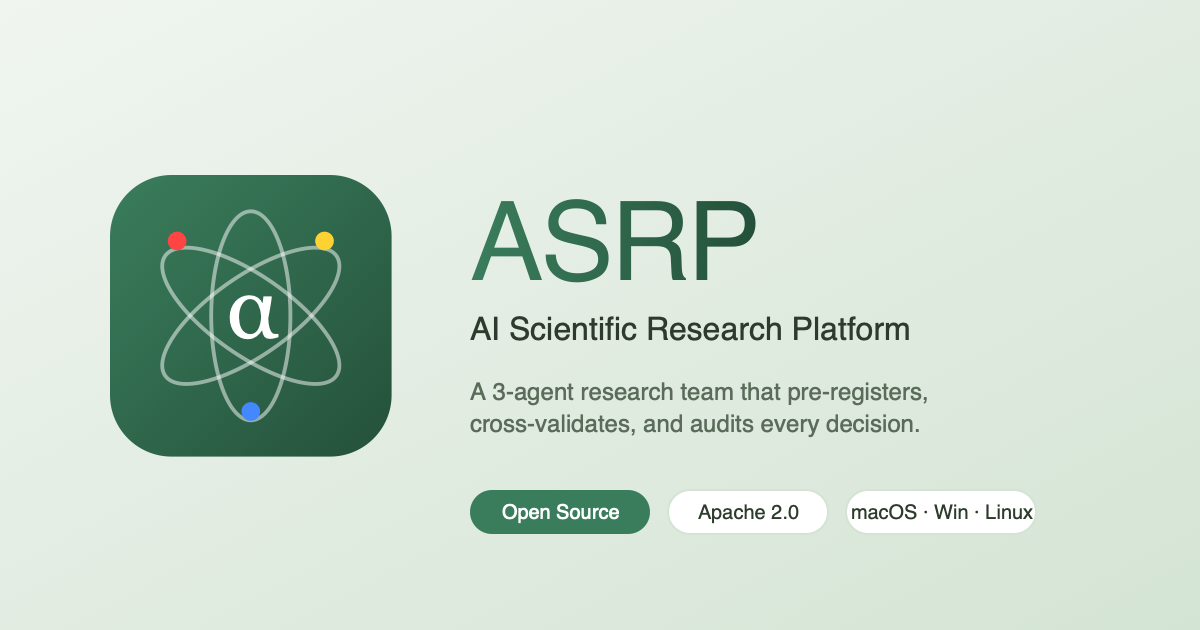
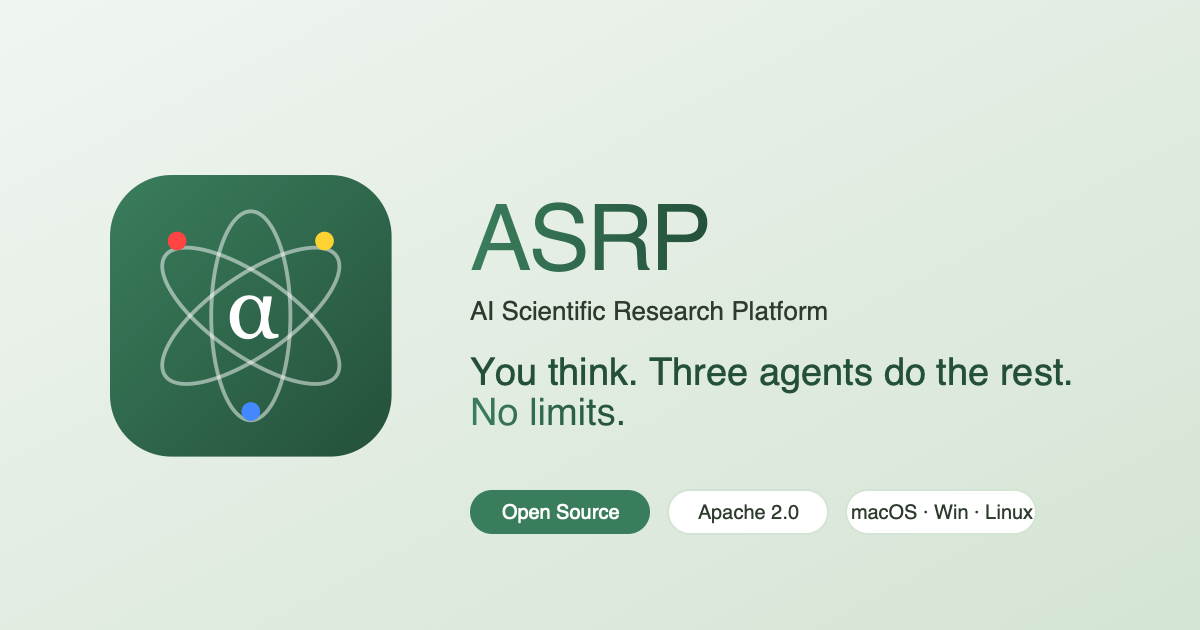
feat(hero): new slogan + dynamic version badge
- New main slogan: "You think. Three agents do the rest. No limits."
- New sub-tagline frames the human/agent division of labor: humans
  own hypotheses, judgments, decisions; agents handle literature recon,
  simulations, code, documentation, figures
- Translated across all 4 locales (en/zh/zht/de)
- Updated meta description, og:description, twitter:description, and
  JSON-LD description to match
- Refreshed og-image.svg/png with the new tagline
- Hero version badge now reads from [data-asrp-version] populated by
  download.js (single source of truth = GitHub Releases API), so the
  badge can never drift from the real latest release again

Changed region(s): [[0.37, 0.573, 0.8942, 0.6937], [0.37, 0.3016, 0.6475, 0.4524], [0.37, 0.4825, 0.7708, 0.5429]]

diff --git a/index.html b/index.html
@@ -4,7 +4,7 @@
 <meta charset="UTF-8">
 <meta name="viewport" content="width=device-width, initial-scale=1.0">
 <title>ASRP — AI Scientific Research Platform</title>
-<meta name="description" content="ASRP is an open-source AI Scientific Research Platform. A 3-agent research team that pre-registers experiments, cross-validates results, and audits every decision. Discord-native, runs locally, Apache 2.0.">
+<meta name="description" content="ASRP — You think. Three agents do the rest. No limits. An open-source AI Scientific Research Platform: you handle hypotheses, judgments, and decisions; your agents handle literature recon, simulations, code, documentation, and figures. Discord-native, runs locally, Apache 2.0.">
 <meta name="keywords" content="AI research, scientific research platform, AI agents, multi-agent, pre-registration, cross-validation, reproducibility, open science, Discord, Ollama, Claude, ASRP">
 
 <!-- Favicons -->
@@ -18,13 +18,13 @@
 <meta property="og:type" content="website">
 <meta property="og:url" content="https://asrp.jzis.org/">
 <meta property="og:title" content="ASRP — AI Scientific Research Platform">
-<meta property="og:description" content="A 3-agent research team that pre-registers, cross-validates, and audits every decision. Open source, Discord-native, runs locally.">
+<meta property="og:description" content="You think. Three agents do the rest. No limits. — Open-source AI Scientific Research Platform. Discord-native, runs locally.">
 <meta property="og:image" content="https://asrp.jzis.org/og-image.png">
 <meta property="og:image:width" content="1200">
 <meta property="og:image:height" content="630">
 <meta name="twitter:card" content="summary_large_image">
 <meta name="twitter:title" content="ASRP — AI Scientific Research Platform">
-<meta name="twitter:description" content="A 3-agent research team that pre-registers, cross-validates, and audits every decision.">
+<meta name="twitter:description" content="You think. Three agents do the rest. No limits. — Open-source AI Scientific Research Platform.">
 <meta name="twitter:image" content="https://asrp.jzis.org/og-image.png">
 
 <!-- JSON-LD: SoftwareApplication -->
@@ -42,7 +42,7 @@
   "downloadUrl": "https://github.com/JackZH26/ASRP-JZIS/releases/latest",
   "softwareVersion": "0.3.13",
   "publisher": { "@type": "Organization", "name": "JZ Institute of Science", "url": "https://www.jzis.org" },
-  "description": "Open-source AI Scientific Research Platform — a 3-agent research team (Theorist, Engineer, Reviewer) that pre-registers experiments, cross-validates results, and audits every decision. Discord-native, runs locally."
+  "description": "You think. Three agents do the rest. No limits. — Open-source AI Scientific Research Platform. You handle hypotheses, judgments, and decisions; your three agents (Theorist, Engineer, Reviewer) handle literature recon, simulations, code, documentation, and figures. Discord-native, runs locally."
 }
 </script>
 
@@ -333,13 +333,13 @@ footer .copyright { font-size: 0.875rem; color: var(--text-tertiary); }
   <div class="container">
     <div class="badge">
       <svg width="12" height="12" viewBox="0 0 24 24" fill="currentColor"><circle cx="12" cy="12" r="10"/></svg>
-      <span data-i18n="hero.badge">Open Source · Apache 2.0 · v0.3.13</span>
+      <span data-i18n="hero.badge">Open Source · Apache 2.0</span> · <span data-asrp-version>v0.3.15</span>
     </div>
     <h1>
-      <span data-i18n="hero.title1">A 3-agent research team</span><br>
-      <span data-i18n="hero.title2">that catches errors </span><span class="gradient-text" data-i18n="hero.title3">before they ship</span>.
+      <span data-i18n="hero.title1">You think.</span><br>
+      <span data-i18n="hero.title2">Three agents do the rest. </span><span class="gradient-text" data-i18n="hero.title3">No limits</span>.
     </h1>
-    <p class="subtitle" data-i18n="hero.subtitle">ASRP is an open-source AI Scientific Research Platform. Theorist, Engineer, and Reviewer collaborate in your Discord, pre-register hypotheses, cross-validate results, and audit every decision — all from a desktop app you run on your own machine.</p>
+    <p class="subtitle" data-i18n="hero.subtitle">You handle hypotheses, judgments, and decisions. Your agents handle literature recon, simulations, code, documentation, and figures.</p>
     <div class="actions">
       <a href="https://github.com/JackZH26/ASRP-JZIS/releases/latest" class="btn btn-primary dl-btn" data-asrp-download>
         <span class="dl-row1">
@@ -750,11 +750,11 @@ document.addEventListener('click', function(e) {
 const translations = {
   en: {
     "nav.workflow":"Workflow","nav.agents":"Agents","nav.features":"Features","nav.challenge":"Challenge","nav.download":"Download",
-    "hero.badge":"Open Source · Apache 2.0 · v0.3.13",
-    "hero.title1":"A 3-agent research team",
-    "hero.title2":"that catches errors ",
-    "hero.title3":"before they ship",
-    "hero.subtitle":"ASRP is an open-source AI Scientific Research Platform. Theorist, Engineer, and Reviewer collaborate in your Discord, pre-register hypotheses, cross-validate results, and audit every decision — all from a desktop app you run on your own machine.",
+    "hero.badge":"Open Source · Apache 2.0",
+    "hero.title1":"You think.",
+    "hero.title2":"Three agents do the rest. ",
+    "hero.title3":"No limits",
+    "hero.subtitle":"You handle hypotheses, judgments, and decisions. Your agents handle literature recon, simulations, code, documentation, and figures.",
     "hero.download":"Download for your platform","hero.dlSub":"","hero.viewGithub":"View on GitHub",
     "hero.stats.agents":"Agent Roles","hero.stats.phases":"Workflow Phases","hero.stats.challenges":"Challenge Problems","hero.stats.languages":"Languages",
     "problem.eyebrow":"The reproducibility crisis","problem.title":"Speed without rigor is noise.","problem.subtitle":"AI agents can produce a paper a day. Most of those papers won't reproduce. ASRP encodes the scientific method into the workflow itself.",
@@ -821,11 +821,11 @@ const translations = {
   },
   zh: {
     "nav.workflow":"工作流","nav.agents":"智能体","nav.features":"功能","nav.challenge":"挑战题库","nav.download":"下载",
-    "hero.badge":"开源 · Apache 2.0 · v0.3.13",
-    "hero.title1":"3 智能体科研团队",
-    "hero.title2":"在错误流入论文前 ",
-    "hero.title3":"主动拦截",
-    "hero.subtitle":"ASRP 是一个开源的 AI 科学研究平台。Theorist、Engineer、Reviewer 三个智能体在你的 Discord 中协作，预注册假设、交叉验证结果、审计每一个决策——全部在你本机运行的桌面应用里完成。",
+    "hero.badge":"开源 · Apache 2.0",
+    "hero.title1":"你负责思考。",
+    "hero.title2":"三个智能体做剩下的一切。 ",
+    "hero.title3":"没有上限",
+    "hero.subtitle":"你只管假设、判断和决策。文献检索、数值计算、代码、文档、制图——交给你的智能体。",
     "hero.download":"下载适合你平台的版本","hero.dlSub":"","hero.viewGithub":"在 GitHub 上查看",
     "hero.stats.agents":"智能体角色","hero.stats.phases":"工作流阶段","hero.stats.challenges":"挑战题","hero.stats.languages":"语言",
     "problem.eyebrow":"可重复性危机","problem.title":"没有严谨的速度只是噪音。","problem.subtitle":"AI 智能体一天能产出一篇论文。但其中大多数无法复现。ASRP 把科学方法直接编码到工作流里。",
@@ -892,11 +892,11 @@ const translations = {
   },
   zht: {
     "nav.workflow":"工作流","nav.agents":"智能體","nav.features":"功能","nav.challenge":"挑戰題庫","nav.download":"下載",
-    "hero.badge":"開源 · Apache 2.0 · v0.3.13",
-    "hero.title1":"3 智能體科研團隊",
-    "hero.title2":"在錯誤流入論文前 ",
-    "hero.title3":"主動攔截",
-    "hero.subtitle":"ASRP 是一個開源的 AI 科學研究平台。Theorist、Engineer、Reviewer 三個智能體在你的 Discord 中協作，預註冊假設、交叉驗證結果、稽核每一個決策——全部在你本機運行的桌面應用裡完成。",
+    "hero.badge":"開源 · Apache 2.0",
+    "hero.title1":"你負責思考。",
+    "hero.title2":"三個智能體做剩下的一切。 ",
+    "hero.title3":"沒有上限",
+    "hero.subtitle":"你只管假設、判斷和決策。文獻檢索、數值計算、程式碼、文件、製圖——交給你的智能體。",
     "hero.download":"下載適合你平台的版本","hero.dlSub":"","hero.viewGithub":"在 GitHub 上查看",
     "hero.stats.agents":"智能體角色","hero.stats.phases":"工作流階段","hero.stats.challenges":"挑戰題","hero.stats.languages":"語言",
     "problem.eyebrow":"可重現性危機","problem.title":"沒有嚴謹的速度只是噪音。","problem.subtitle":"AI 智能體一天能產出一篇論文。但其中大多數無法重現。ASRP 把科學方法直接編碼到工作流裡。",
@@ -963,11 +963,11 @@ const translations = {
   },
   de: {
     "nav.workflow":"Workflow","nav.agents":"Agenten","nav.features":"Funktionen","nav.challenge":"Challenge","nav.download":"Download",
-    "hero.badge":"Open Source · Apache 2.0 · v0.3.13",
-    "hero.title1":"Ein 3-Agenten-Forschungsteam,",
-    "hero.title2":"das Fehler abfängt, ",
-    "hero.title3":"bevor sie veröffentlicht werden",
-    "hero.subtitle":"ASRP ist eine Open-Source-Plattform für KI-gestützte wissenschaftliche Forschung. Theorist, Engineer und Reviewer arbeiten in deinem Discord zusammen, registrieren Hypothesen vor, kreuzvalidieren Ergebnisse und prüfen jede Entscheidung — alles in einer Desktop-App, die du auf deinem eigenen Rechner betreibst.",
+    "hero.badge":"Open Source · Apache 2.0",
+    "hero.title1":"Du denkst.",
+    "hero.title2":"Drei Agenten erledigen den Rest. ",
+    "hero.title3":"Kein Limit",
+    "hero.subtitle":"Du übernimmst Hypothesen, Urteile und Entscheidungen. Deine Agenten übernehmen Literaturrecherche, Simulationen, Code, Dokumentation und Abbildungen.",
     "hero.download":"Download für dein System","hero.dlSub":"","hero.viewGithub":"Auf GitHub ansehen",
     "hero.stats.agents":"Agentenrollen","hero.stats.phases":"Workflow-Phasen","hero.stats.challenges":"Challenge-Aufgaben","hero.stats.languages":"Sprachen",
     "problem.eyebrow":"Die Reproduzierbarkeitskrise","problem.title":"Geschwindigkeit ohne Strenge ist Rauschen.","problem.subtitle":"KI-Agenten produzieren ein Paper pro Tag. Die meisten lassen sich nicht reproduzieren. ASRP kodiert die wissenschaftliche Methode direkt in den Workflow.",

diff --git a/download.js b/download.js
@@ -123,6 +123,10 @@
         var asset = pickAsset(release.assets || [], plat);
         btns.forEach(function (btn) { applyToButton(btn, plat, release, asset); });
 
+        // Fill any standalone version placeholders (e.g. hero badge)
+        var verEls = document.querySelectorAll('[data-asrp-version]');
+        verEls.forEach(function (el) { el.textContent = release.tag_name || ''; });
+
         // Also fill any "other platforms" lists
         var others = document.querySelectorAll('[data-asrp-download-list]');
         others.forEach(function (list) {
@@ -141,9 +145,6 @@
             li.innerHTML = '<span class="dl-other-os">' + p.label + '</span><span class="dl-other-name">' + a.name + '</span>';
             list.appendChild(li);
           });
-          // Show version
-          var verEls = document.querySelectorAll('[data-asrp-version]');
-          verEls.forEach(function (el) { el.textContent = release.tag_name || ''; });
         });
       })
       .catch(function () {
